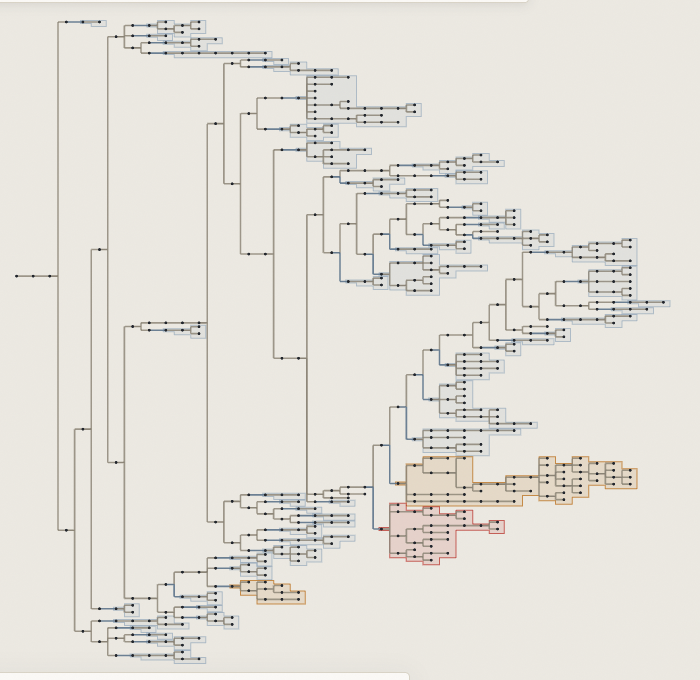
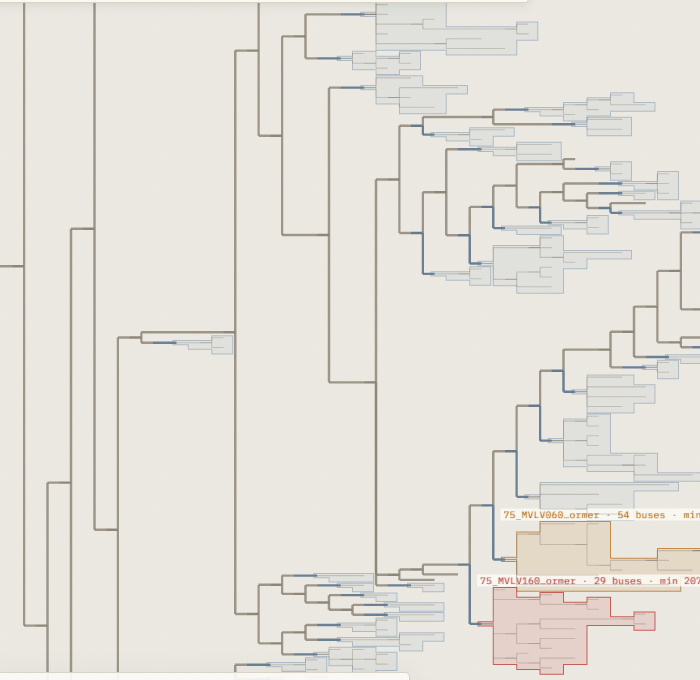
Weight lines by voltage level, fade LV when zoomed out, tag zones
- Each galvanic zone gets a voltage level from its declared limits, else
  its solved voltages, else whether it holds the source; MV (from 1 kV
  phase-phase) lines draw heavier than LV, transformers take their
  higher side. SVG export keeps the widths.
- Zoomed out, LV lines fade and LV bus dots are left out (except when
  colouring by voltage band), so the MV backbone and zone outlines read
  first on large feeders.
- Zone outlines carry a tag once wide enough on screen: feeding
  transformer, bus count, and after a solve the lowest phase-neutral
  voltage and highest loading.

diff --git a/packages/svelte/src/lib/components/SchematicCanvas.svelte b/packages/svelte/src/lib/components/SchematicCanvas.svelte
@@ -46,6 +46,9 @@
 		treeWalk,
 		type WalkKey,
 		galvanicZones,
+		zoneLevel,
+		zoneSummary,
+		zoneVoltage,
 		zoneHull,
 		zoneOutline,
 		zoneState,
@@ -179,6 +182,60 @@
 			[184, 50, 42, 190]
 		]
 	};
+	/** MV (from 1 kV phase–phase) is drawn heavier than LV, as on a paper single-line diagram; a
+	 * transformer takes its higher side. */
+	const zoneMv = $derived(
+		zones.zones.map((z) => zoneLevel(z, zoneVoltage(z, graph, snapshot)) === 'mv')
+	);
+	const edgeMv = $derived(
+		Uint8Array.from(graph.edges, (e, k) => {
+			const { from, to } = inputs.names.branches[k];
+			const mv = (i: number) => (i >= 0 ? zoneMv[zones.busZone[i]] : false);
+			return mv(from) || (e.kind === 'transformer' && mv(to)) ? 1 : 0;
+		})
+	);
+	/** Zoomed out, LV detail fades so the MV backbone, zone outlines and states read first. */
+	const zoomedOut = $derived(!symbolsOn);
+	const mvBuses = $derived(graph.buses.flatMap((_, i) => (zoneMv[zones.busZone[i]] ? [i] : [])));
+	const allBuses = $derived(graph.buses.map((_, i) => i));
+	function segmentWidths(g: SchematicGeometry): Float32Array {
+		const [mv, lv] = colour === 'none' ? [2.4, 1.1] : [3, 1.8];
+		return Float32Array.from(g.segmentEdge, (k) => (edgeMv[k] ? mv : lv));
+	}
+	const transformerNames = $derived.by(() => {
+		const ks = graph.edges.flatMap((e, k) => (e.kind === 'transformer' ? [k] : []));
+		const short = shortNames(
+			ks.map((k) => graph.edges[k].id),
+			16
+		);
+		return new Map(ks.map((k, j) => [k, short[j]]));
+	});
+	/** Zone tags at each outline's top-left: feeding transformer, size, and when solved the
+	 * lowest voltage and highest loading. Drawn once the outline is wide enough on screen. */
+	const zoneTags = $derived(
+		zoneShapes.map(({ z, polygon }) => {
+			const zone = zones.zones[z];
+			const t = zone.transformers[0];
+			const { minVolts, maxLoading } = zoneSummary(zone, snapshot);
+			const xs = polygon.map((p) => p[0]);
+			const ys = polygon.map((p) => p[1]);
+			const v = (x: number) => (x >= 1000 ? `${(x / 1000).toFixed(2)} kV` : `${x.toFixed(1)} V`);
+			const text = [
+				t === undefined ? 'network' : (transformerNames.get(t) ?? graph.edges[t].id),
+				`${zone.buses.length} buses`,
+				...(minVolts === null ? [] : [`min ${v(minVolts)}`]),
+				...(maxLoading === null ? [] : [`${maxLoading.toFixed(0)} %`])
+			].join(' · ');
+			return {
+				z,
+				text,
+				position: [Math.min(...xs), Math.min(...ys)] as [number, number],
+				width: Math.max(...xs) - Math.min(...xs)
+			};
+		})
+	);
+	/** Zoom in quarter steps: zone tags appear and go only when this changes, not on every pan. */
+	const tagZoom = $derived(Math.floor(camera.zoom * 4) / 4);
 	function zoneLabel(z: number): string {
 		const zone = zones.zones[z];
 		const t = zone.transformers[0];
@@ -412,7 +469,9 @@
 		for (let s = 0; s < g.segmentEdge.length; s++) {
 			const k = g.segmentEdge[s];
 			const c = edgeColours[k];
-			out.set([c[0], c[1], c[2], g.role[k] === 2 ? Math.min(110, c[3]) : c[3]], s * 4);
+			let alpha = g.role[k] === 2 ? Math.min(110, c[3]) : c[3];
+			if (zoomedOut && !edgeMv[k]) alpha *= 0.45;
+			out.set([c[0], c[1], c[2], alpha], s * 4);
 		}
 		return out;
 	}
@@ -496,6 +555,27 @@
 				pickable: true,
 				updateTriggers: { getFillColor: zoneStates, getLineColor: zoneStates }
 			}),
+			new TextLayer({
+				...common,
+				id: 'zone-tags',
+				data: zoneTags.filter((t) => t.width * 2 ** tagZoom >= 150),
+				getPosition: (t: { position: [number, number] }) => [...t.position, 0],
+				getText: (t: { text: string }) => t.text,
+				getColor: (t: { z: number }) => {
+					const s = zoneStates[t.z];
+					return s === 'violation' ? DANGER : s === 'warning' ? WARNING : [70, 110, 150, 255];
+				},
+				getSize: 10,
+				getTextAnchor: 'start',
+				getAlignmentBaseline: 'bottom',
+				getPixelOffset: [2, -2],
+				background: true,
+				getBackgroundColor: [...PAPER.slice(0, 3), 220] as RGBA,
+				backgroundPadding: [3, 1],
+				fontFamily: 'IBM Plex Mono, ui-monospace, monospace',
+				characterSet: 'auto',
+				updateTriggers: { getColor: zoneStates }
+			}),
 			// Result colours are quiet for normal values; a faint underlay keeps the topology legible.
 			...(colour === 'none'
 				? []
@@ -517,10 +597,10 @@
 					attributes: {
 						getSourcePosition: { value: d.sources, size: 3 },
 						getTargetPosition: { value: d.targets, size: 3 },
-						getColor: { value: segmentColours(d), size: 4, normalized: true }
+						getColor: { value: segmentColours(d), size: 4, normalized: true },
+						getWidth: { value: segmentWidths(d), size: 1 }
 					}
 				},
-				getWidth: colour === 'none' ? 1.6 : 2.2,
 				widthUnits: 'pixels',
 				pickable: true
 			}),
@@ -620,7 +700,8 @@
 			new ScatterplotLayer({
 				...common,
 				id: `buses-${layout}`,
-				data: graph.buses.map((_, i) => i),
+				// Zoomed out, LV bus dots are noise unless they carry the voltage colouring.
+				data: zoomedOut && colour !== 'voltage-band' ? mvBuses : allBuses,
 				getPosition: (i: number) => [...point(i), 0],
 				getFillColor: (i: number) => busColours[i],
 				// Zoomed out, small dots keep dense chains from merging into bars.
@@ -887,7 +968,10 @@
 			valuesOn,
 			arrows,
 			hoveredBus,
-			hoveredEdges
+			hoveredEdges,
+			zoomedOut,
+			zoneTags,
+			tagZoom
 		];
 		if (!morph) render();
 	});
@@ -1214,7 +1298,7 @@
 						targets: drawn.targets,
 						colors: segmentColours(drawn),
 						count: drawn.segmentEdge.length,
-						width: 1.6
+						widths: segmentWidths(drawn)
 					},
 					...(symbolsOn && equipment
 						? [

diff --git a/packages/svelte/src/lib/diagram/galvanic-zones.ts b/packages/svelte/src/lib/diagram/galvanic-zones.ts
@@ -151,3 +151,66 @@ export function zoneHull(zone: GalvanicZone, positions: ArrayLike<number>): [num
 	};
 	return [...half(points), ...half([...points].reverse())];
 }
+
+/** A zone's phase–phase voltage level in volts: from declared limits (midpoint of the band; a
+ * phase–neutral band times √3), else from solved voltages; the median over its buses. Null when
+ * neither is known. */
+export function zoneVoltage(
+	zone: GalvanicZone,
+	graph: DistGraph,
+	snapshot: ResultSnapshot | null
+): number | null {
+	const levels: number[] = [];
+	const mid = (lo?: number[], hi?: number[]) =>
+		lo?.length && hi?.length ? (Math.min(...lo) + Math.max(...hi)) / 2 : null;
+	for (const i of zone.buses) {
+		const l = graph.buses[i].voltage_limits;
+		const pp = mid(l?.vpp_min, l?.vpp_max);
+		const pn = mid(l?.vpn_min, l?.vpn_max);
+		let v = pp ?? (pn === null ? null : pn * Math.sqrt(3));
+		if (v === null && snapshot) {
+			const pairs = snapshot.buses[i]?.pairs ?? [];
+			const phase = pairs.filter((p) => p.pair[0] !== 'n' && p.pair[1] !== 'n');
+			const neutral = pairs.filter((p) => p.pair[1] === 'n' && p.pair[0] !== 'n');
+			if (phase.length) v = Math.max(...phase.map((p) => p.volts));
+			else if (neutral.length) v = Math.max(...neutral.map((p) => p.volts)) * Math.sqrt(3);
+		}
+		if (v !== null && Number.isFinite(v) && v > 0) levels.push(v);
+	}
+	if (!levels.length) return null;
+	levels.sort((a, b) => a - b);
+	return levels[levels.length >> 1];
+}
+
+/** `mv` from 1 kV phase–phase up (drawn heavier), else `lv`. Without a known voltage the source
+ * zone counts as `mv`, others as `lv`. */
+export function zoneLevel(zone: GalvanicZone, volts: number | null): 'mv' | 'lv' {
+	if (volts === null) return zone.hasSource ? 'mv' : 'lv';
+	return volts >= 1000 ? 'mv' : 'lv';
+}
+
+/** One-line zone summary for its label: lowest phase–neutral (else phase–phase) voltage and
+ * highest loading among its branches and transformers, when solved. */
+export function zoneSummary(
+	zone: GalvanicZone,
+	snapshot: ResultSnapshot | null
+): { minVolts: number | null; maxLoading: number | null } {
+	if (!snapshot) return { minVolts: null, maxLoading: null };
+	let pn = Infinity;
+	let pp = Infinity;
+	for (const i of zone.buses)
+		for (const p of snapshot.buses[i]?.pairs ?? []) {
+			if (!Number.isFinite(p.volts)) continue;
+			if (p.pair[1] === 'n' && p.pair[0] !== 'n') pn = Math.min(pn, p.volts);
+			else if (p.pair[0] !== 'n') pp = Math.min(pp, p.volts);
+		}
+	let loading = -Infinity;
+	for (const k of [...zone.transformers, ...zone.edges]) {
+		const l = snapshot.branches[k]?.loading;
+		if (l !== null && l !== undefined && Number.isFinite(l)) loading = Math.max(loading, l);
+	}
+	return {
+		minVolts: Number.isFinite(pn) ? pn : Number.isFinite(pp) ? pp : null,
+		maxLoading: Number.isFinite(loading) ? loading : null
+	};
+}

diff --git a/packages/svelte/tests/diagram-equipment.test.ts b/packages/svelte/tests/diagram-equipment.test.ts
@@ -21,7 +21,10 @@ import {
 	galvanicZones,
 	zoneState,
 	zoneOutline,
-	zoneHull
+	zoneHull,
+	zoneVoltage,
+	zoneLevel,
+	zoneSummary
 } from '../src/lib/diagram/index.js';
 
 const bus = (id: string, attachments: [string, string, string][] = [], source = false) => ({
@@ -358,6 +361,49 @@ describe('galvanic zones', () => {
 		expect(zoneState(a, snap(230, 50))).toBe('normal');
 		expect(zoneState(a, snap(230, 95))).toBe('warning');
 		expect(zoneState(a, snap(200, 50))).toBe('violation');
+	});
+
+	it('tells MV from LV by declared limits, then by solved voltages, then by the source', () => {
+		const limited: DistGraph = {
+			...g,
+			buses: g.buses.map((b) =>
+				b.id === 'mv' || b.id === 'mv2'
+					? { ...b, voltage_limits: { vpp_min: [10_000], vpp_max: [12_000] } }
+					: b.id.startsWith('a')
+						? { ...b, voltage_limits: { vpn_min: [207], vpn_max: [253] } }
+						: b
+			)
+		};
+		expect(zoneVoltage(found.zones[1], limited, null)).toBe(11_000);
+		expect(zoneVoltage(found.zones[2], limited, null)).toBeCloseTo(230 * Math.sqrt(3));
+		expect(zoneVoltage(found.zones[3], limited, null)).toBeNull();
+		expect(zoneLevel(found.zones[1], 11_000)).toBe('mv');
+		expect(zoneLevel(found.zones[2], 398)).toBe('lv');
+		expect(zoneLevel(found.zones[0], null)).toBe('mv');
+		expect(zoneLevel(found.zones[3], null)).toBe('lv');
+	});
+
+	it('summarises a zone by its lowest phase–neutral voltage and highest loading', () => {
+		const snap = {
+			kind: 'solved' as const,
+			label: '',
+			iterations: 1,
+			buses: g.buses.map((_, i) => ({
+				pairs: [
+					{ pair: ['a', 'b'] as [string, string], volts: 400, min: null, max: null },
+					{ pair: ['a', 'n'] as [string, string], volts: 230 - i, min: null, max: null }
+				],
+				unbalance: null
+			})),
+			branches: g.edges.map((_, k) => ({
+				ends: [null, null] as [null, null],
+				loading: k * 10,
+				basis: null
+			}))
+		};
+		// Zone a: buses 4–6 (a3 lowest at 224 V); branches a12, a23 and transformer t2.
+		expect(zoneSummary(found.zones[2], snap)).toEqual({ minVolts: 224, maxLoading: 50 });
+		expect(zoneSummary(found.zones[2], null)).toEqual({ minVolts: null, maxLoading: null });
 	});
 
 	it('outlines a zone as a staircase over its drawing columns', () => {

diff --git a/docs/src/multiconductor-pf.md b/docs/src/multiconductor-pf.md
@@ -32,7 +32,9 @@ The schematic can be walked from the keyboard. Focus it, then use Left to go to 
 
 Once the power flow is solved, the close-up schematic shows values. Each load, generator, inverter-based resource, source and shunt carries its P and Q beside its symbol: consumption for loads and shunts, output for the others. Each branch has an arrow showing which way active power flows. The symbol key in the lower left can be collapsed. Hovering a bus or branch highlights it in the schematic, the voltage profile and the results table together.
 
-Each galvanic zone without a source gets a translucent outline: the buses that are joined by lines and closed switches, separated from the rest only by transformers, which on a feeder are the LV networks. In the schematic the outline follows the drawing column by column, so neighbouring networks stay apart. The outline is orange when a branch inside, or its transformer, is near its rating, and red when a voltage is outside its band or a branch is over its rating. Hover an outline for the transformer feeding it, its size and its state; click it to fit the view to that network.
+Each galvanic zone without a source gets a translucent outline: the buses that are joined by lines and closed switches, separated from the rest only by transformers, which on a feeder are the LV networks. In the schematic the outline follows the drawing column by column, so neighbouring networks stay apart. The outline is orange when a branch inside, or its transformer, is near its rating, and red when a voltage is outside its band or a branch is over its rating. Hover an outline for the transformer feeding it, its size and its state; click it to fit the view to that network. Once an outline is wide enough on screen, a tag at its corner names the feeding transformer and gives the network's size, and after a solve its lowest phase–neutral voltage and highest loading.
+
+Lines are weighted by voltage level, as on a paper single-line diagram: MV (from 1 kV phase–phase, taken from the declared limits or else the solved voltages) heavier than LV. Zoomed out, LV lines fade and LV bus dots are left out, so the MV backbone, the network outlines and their states read first; LV detail returns as you zoom in. In *Voltage within declared band* colouring every bus dot stays.
 
 For a selected branch, a multi-wire view draws every conductor between the two buses' terminal rails, so a crossed terminal map shows as crossing wires, with grounded terminals, terminal attachments and each conductor's current. A transformer is drawn as a winding box with wires meeting it from each side: its windings couple magnetically, with no conductor continuity across them.
 

diff --git a/.changeset/diagram-workbench-logic.md b/.changeset/diagram-workbench-logic.md
@@ -31,7 +31,8 @@ energised from any source are drawn faint; and outside selections fly into view.
 The schematic can be walked bus by bus from the keyboard, with a spoken description.
 Solved P/Q and power-flow arrows show at close zoom, hover is linked across the
 schematic, profile and tables, and each LV network (galvanic zone) is outlined and
-tinted by its worst state. The schematic can be downloaded as a PowerIO
+tinted by its worst state, with a summary tag. MV lines draw heavier than LV, and LV
+detail fades when zoomed out. The schematic can be downloaded as a PowerIO
 diagram layer, follows a case's own routes in source positions, and a selected
 branch gets a multi-wire view of its conductors. Unbalance is the voltage
 unbalance factor from terminal phasors, shown beside the magnitude spread.
